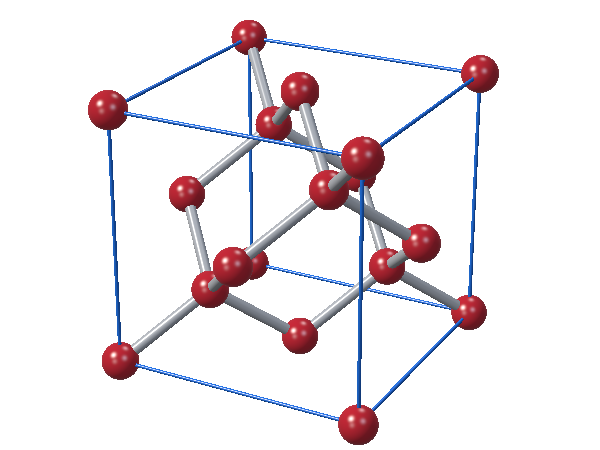
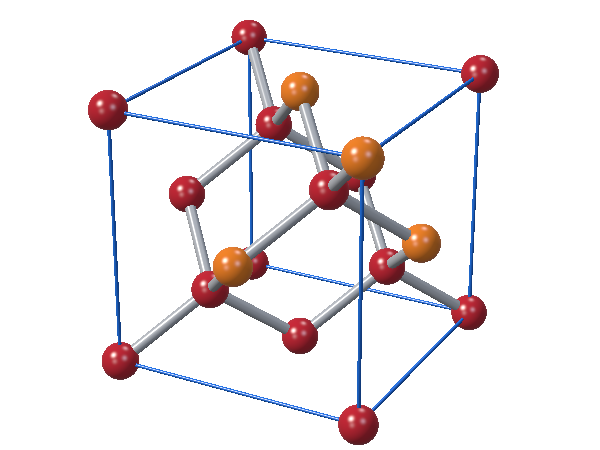
Keep four restored Si neighbors orange in Stage 1

diff --git a/tools/render-diamond-cell.py b/tools/render-diamond-cell.py
@@ -166,6 +166,20 @@ EDGE_RADIUS = 0.0068
 MAT_ATOM = 0
 MAT_BOND = 1
 MAT_EDGE = 2
+MAT_ORANGE = 3
+
+# The restored five-site cluster: one red center and its four orange neighbors.
+missing = np.array(
+    [
+        [0.75, 0.25, 0.75],
+        [0.5, 0.0, 0.5],
+        [0.5, 0.5, 1.0],
+        [1.0, 0.0, 1.0],
+        [1.0, 0.5, 0.5],
+    ],
+    dtype=np.float64,
+)
+orange_neighbors = missing[1:]
 
 sphere_centers = atoms
 sphere_radii = np.full(
@@ -273,6 +287,7 @@ BASE_COLOR = np.array(
         [0.55, 0.018, 0.035],  # glossy ruby-red Si atom
         [0.48, 0.51, 0.56],        # silver bond
         [0.015, 0.20, 0.90],       # blue edge
+        [0.87, 0.23, 0.018],       # glossy orange restored neighbor
     ],
     dtype=np.float64,
 )
@@ -282,6 +297,7 @@ DIFFUSE = np.array(
         0.72,
         0.72,
         0.68,
+        0.72,
     ],
     dtype=np.float64,
 )
@@ -291,6 +307,7 @@ SPECULAR = np.array(
         1.10,
         1.10,
         0.85,
+        1.10,
     ],
     dtype=np.float64,
 )
@@ -300,6 +317,7 @@ SHININESS = np.array(
         130.0,
         92.0,
         76.0,
+        130.0,
     ],
     dtype=np.float64,
 )
@@ -309,6 +327,7 @@ AMBIENT = np.array(
         0.14,
         0.12,
         0.10,
+        0.14,
     ],
     dtype=np.float64,
 )
@@ -466,7 +485,8 @@ def render_unit_cell(output_path="/content/diamond_unit_cell_glossy_transparent.
             update = t < nearest_t
             nearest_t[update] = t[update]
             nearest_normal[update] = normal[update]
-            nearest_material[update] = MAT_ATOM
+            is_restored_neighbor = np.any(np.all(np.isclose(orange_neighbors, center), axis=1))
+            nearest_material[update] = MAT_ORANGE if is_restored_neighbor else MAT_ATOM
 
         # bond / edge intersections
         for start, end, radius, material_id in cylinders:
@@ -527,7 +547,7 @@ def render_unit_cell(output_path="/content/diamond_unit_cell_glossy_transparent.
                     * light_intensity[None, :]
                 )
 
-            atom_hits = materials == MAT_ATOM
+            atom_hits = (materials == MAT_ATOM) | (materials == MAT_ORANGE)
             if np.any(atom_hits):
                 rim = np.clip(
                     1.0
@@ -583,7 +603,6 @@ def render_unit_cell(output_path="/content/diamond_unit_cell_glossy_transparent.
 # ============================================================
 
 rendered_image = render_unit_cell(str(Path(__file__).resolve().parents[1] / "public/diamond-cell-complete.png"))
-missing = np.array([[0.75,0.25,0.75],[0.5,0,0.5],[0.5,0.5,1.0],[1.0,0,1.0],[1.0,0.5,0.5]])
 retained = ~np.any(np.all(np.isclose(sphere_centers[:,None,:],missing[None,:,:]),axis=2),axis=1)
 sphere_centers=sphere_centers[retained]
 sphere_radii=sphere_radii[retained]
